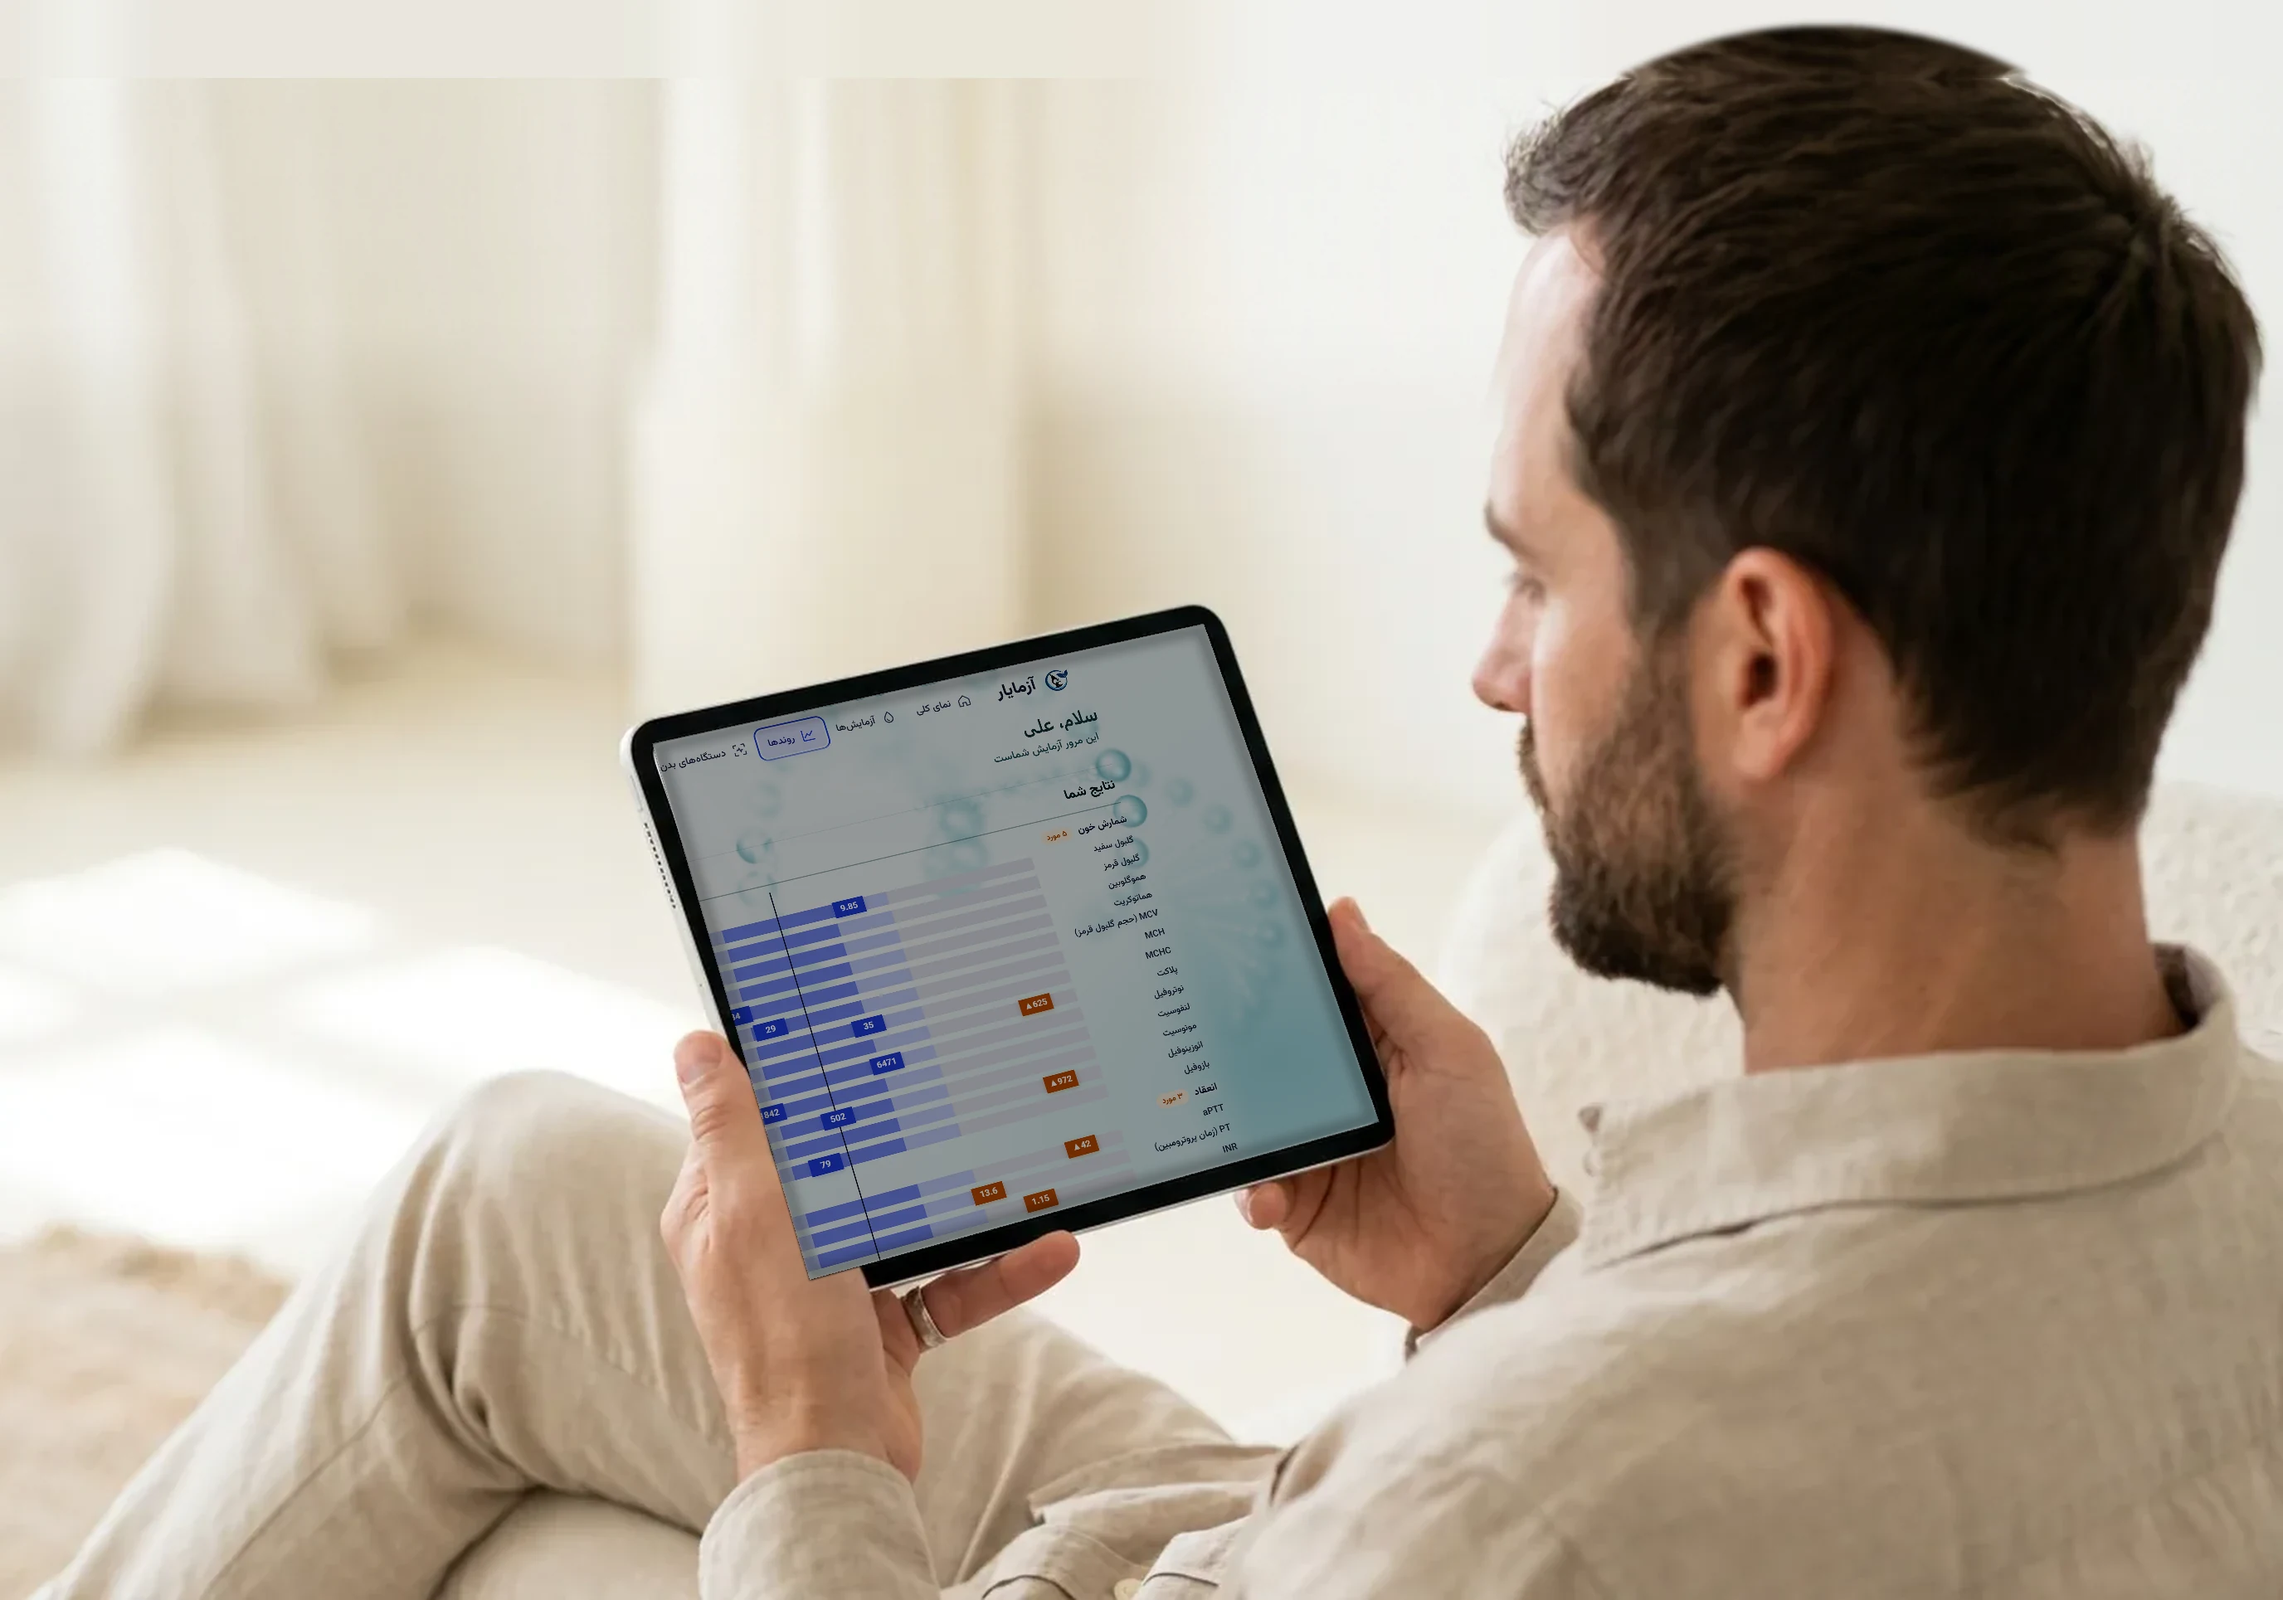
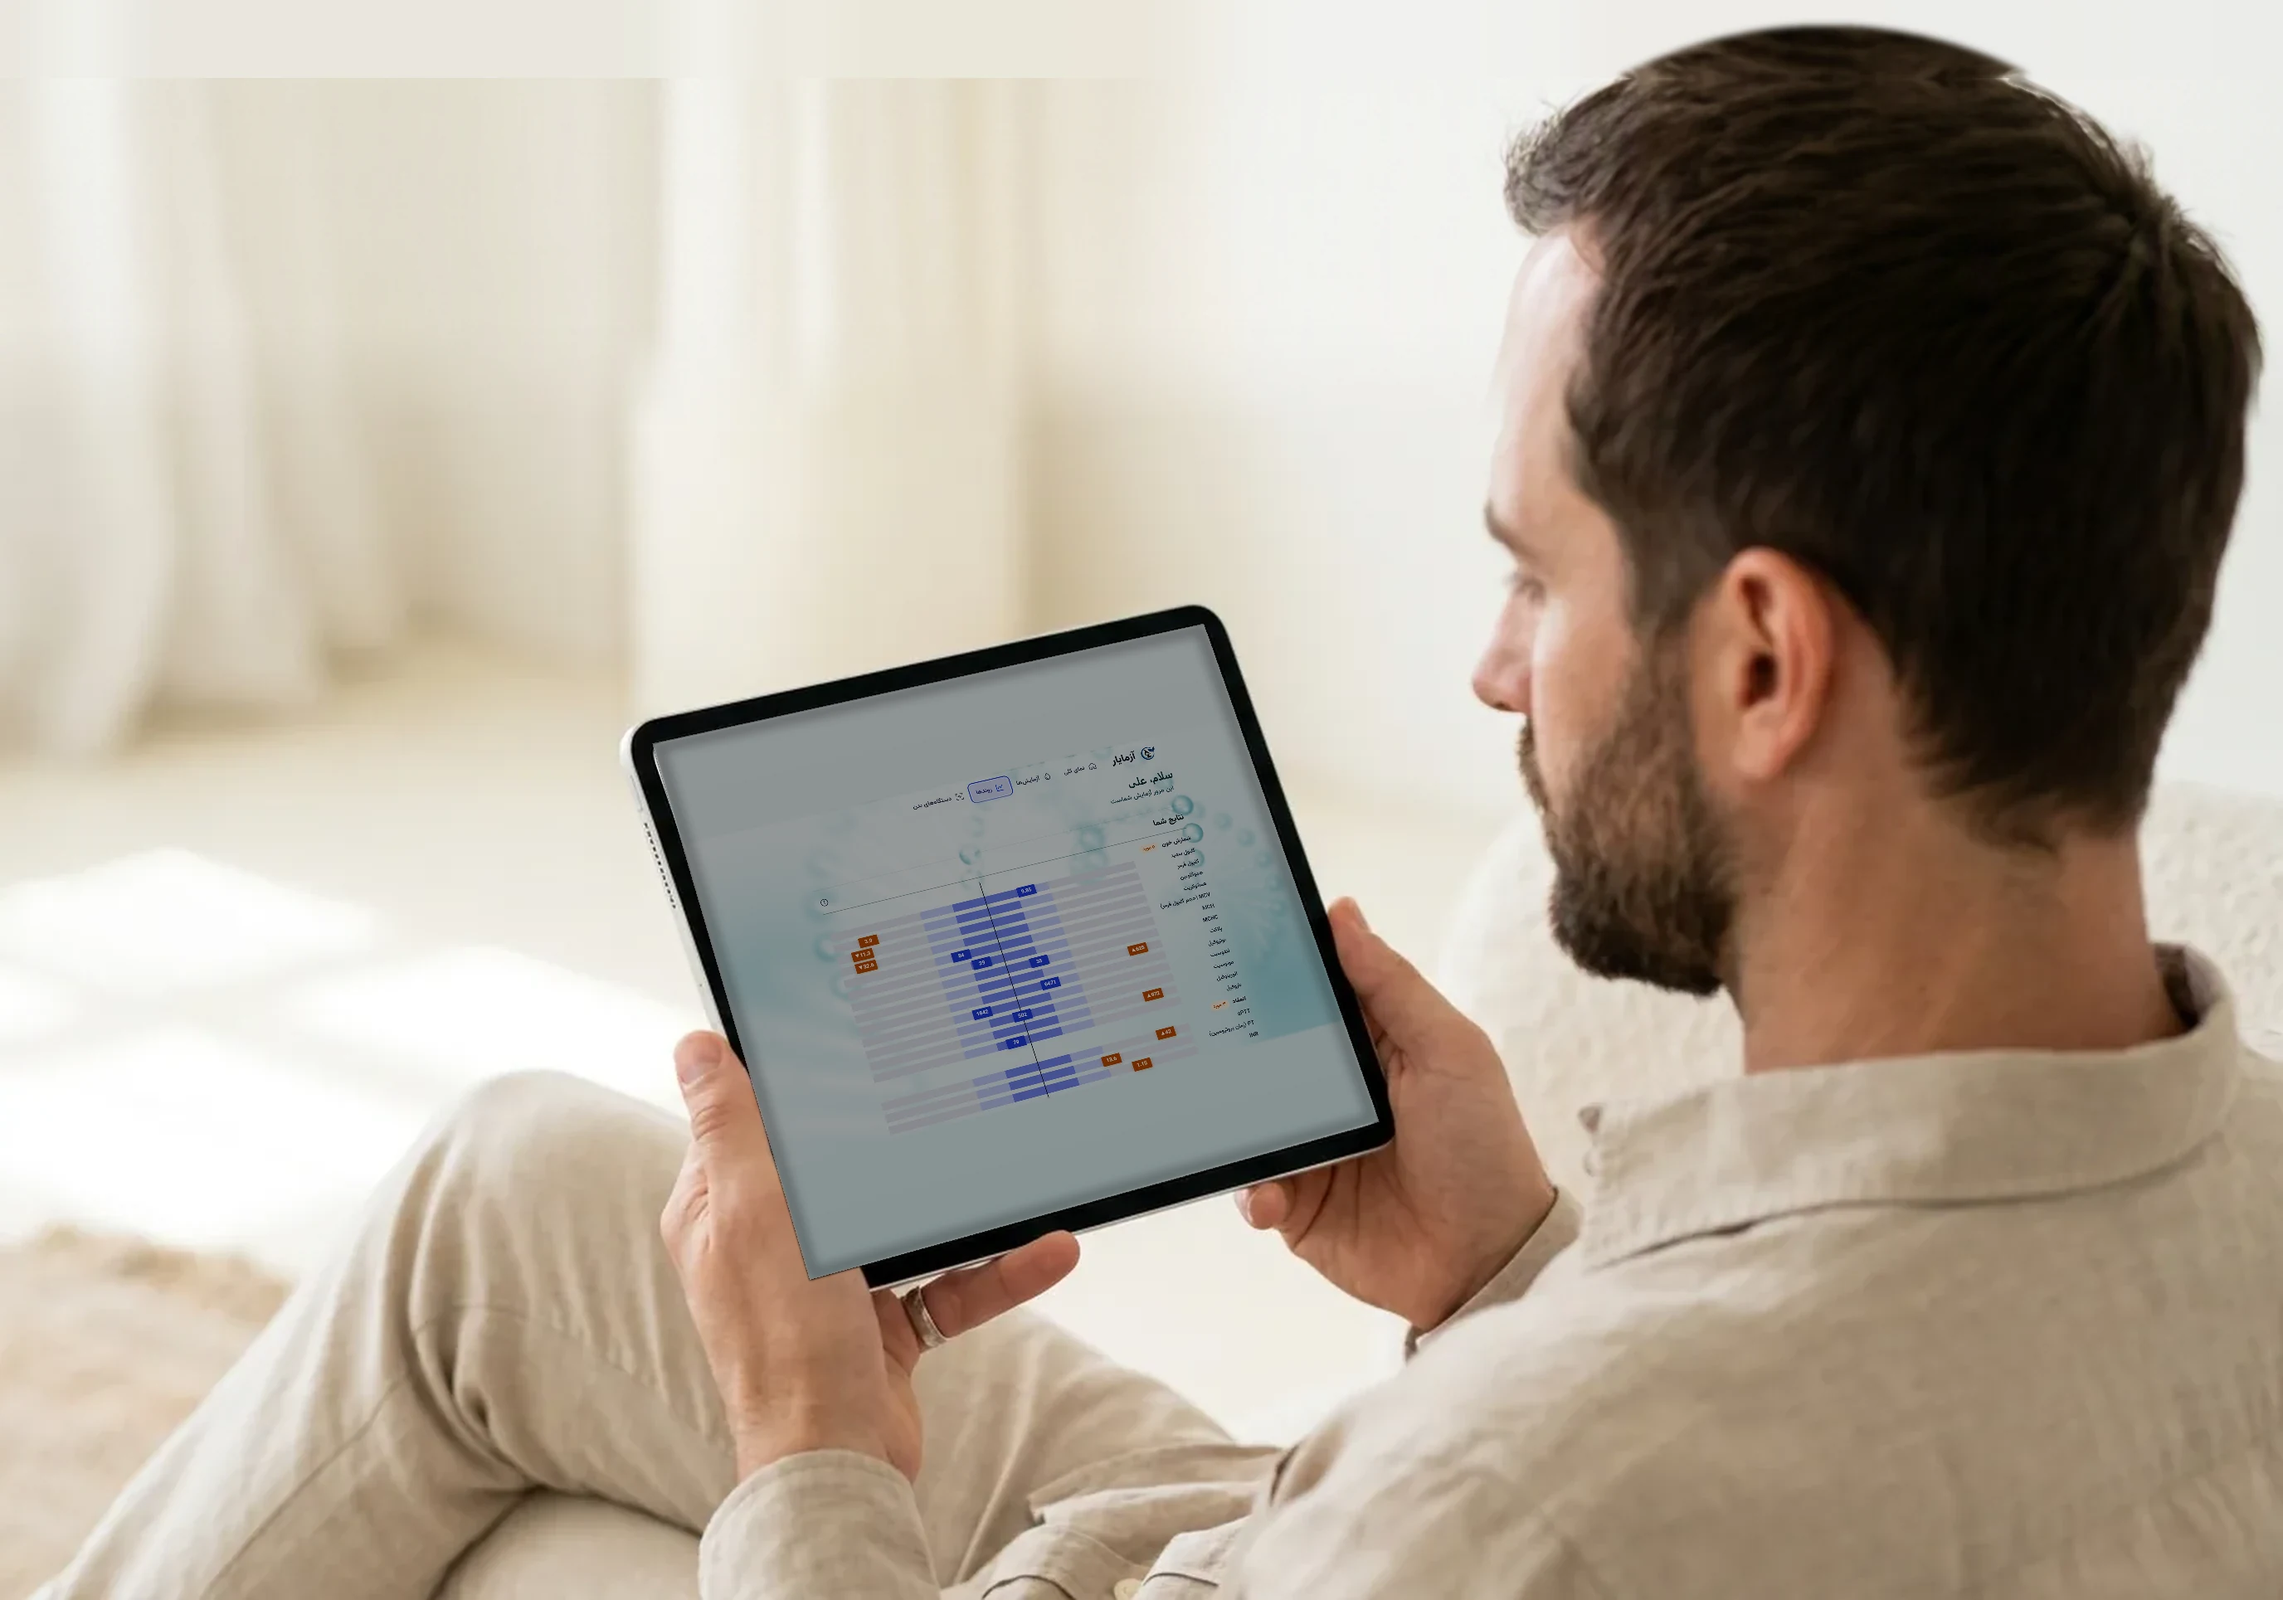
fix(landing): برشِ کناری برگشت — تصویرِ کامل (بدونِ قطعِ میلهها) داخلِ پردهٔ تبلت
- بهجای برشِ ۵۰۴px از سمتِ چپ، تصویرِ ۲۶۵۰×۱۵۱۴ کامل استفاده میشود و برای رسیدن به
  نسبتِ پرده (۱٫۰۶) نوارهای همرنگِ گرادیان بالا/پایین اضافه میشود (نه قطعِ محتوا)
- نامِ بیمار «سلام، علی» و زمینهٔ ۵۰٪ روشنتر دستنخورده ماند
- لایهٔ رنگی (بدونِ فیلتر) فقط ≥۱۲۸۰px نمایش داده میشود؛ زیرِ آن همان نسخهٔ پخته
  میماند تا ورقِ روشن روی هالهٔ یشمی شناور نماند (در ۱۰۳۷px سنجیده شد)

Changed region(s): [[0.3125, 0.4666, 0.5938, 0.8087], [0.4375, 0.4044, 0.4688, 0.4355], [0.4062, 0.4977, 0.4375, 0.5288]]

diff --git a/khanesh/src/site.css b/khanesh/src/site.css
@@ -1617,7 +1617,9 @@ a.site-test:hover { border-color: var(--brand); box-shadow: var(--sh-xs); }
   filter: none; z-index: 1; pointer-events: none; user-select: none;
   -webkit-mask-image: none; mask-image: none;
 }
-@media (max-width: 979px) { .lh-screen { display: none; } }
+/* لایهٔ رنگی فقط جایی که عکسِ هیرو واضح است (≥۱۲۸۰px)؛ زیرِ آن همان نسخهٔ پخته
+   نمایش داده میشود تا ورقِ روشن روی هالهٔ یشمی شناور نماند. */
+@media (max-width: 1279px) { .lh-screen { display: none; } }
 .lh::after {
   background:
     radial-gradient(42% 60% at 68% 30%, rgba(0, 168, 107, .30), transparent 70%),
